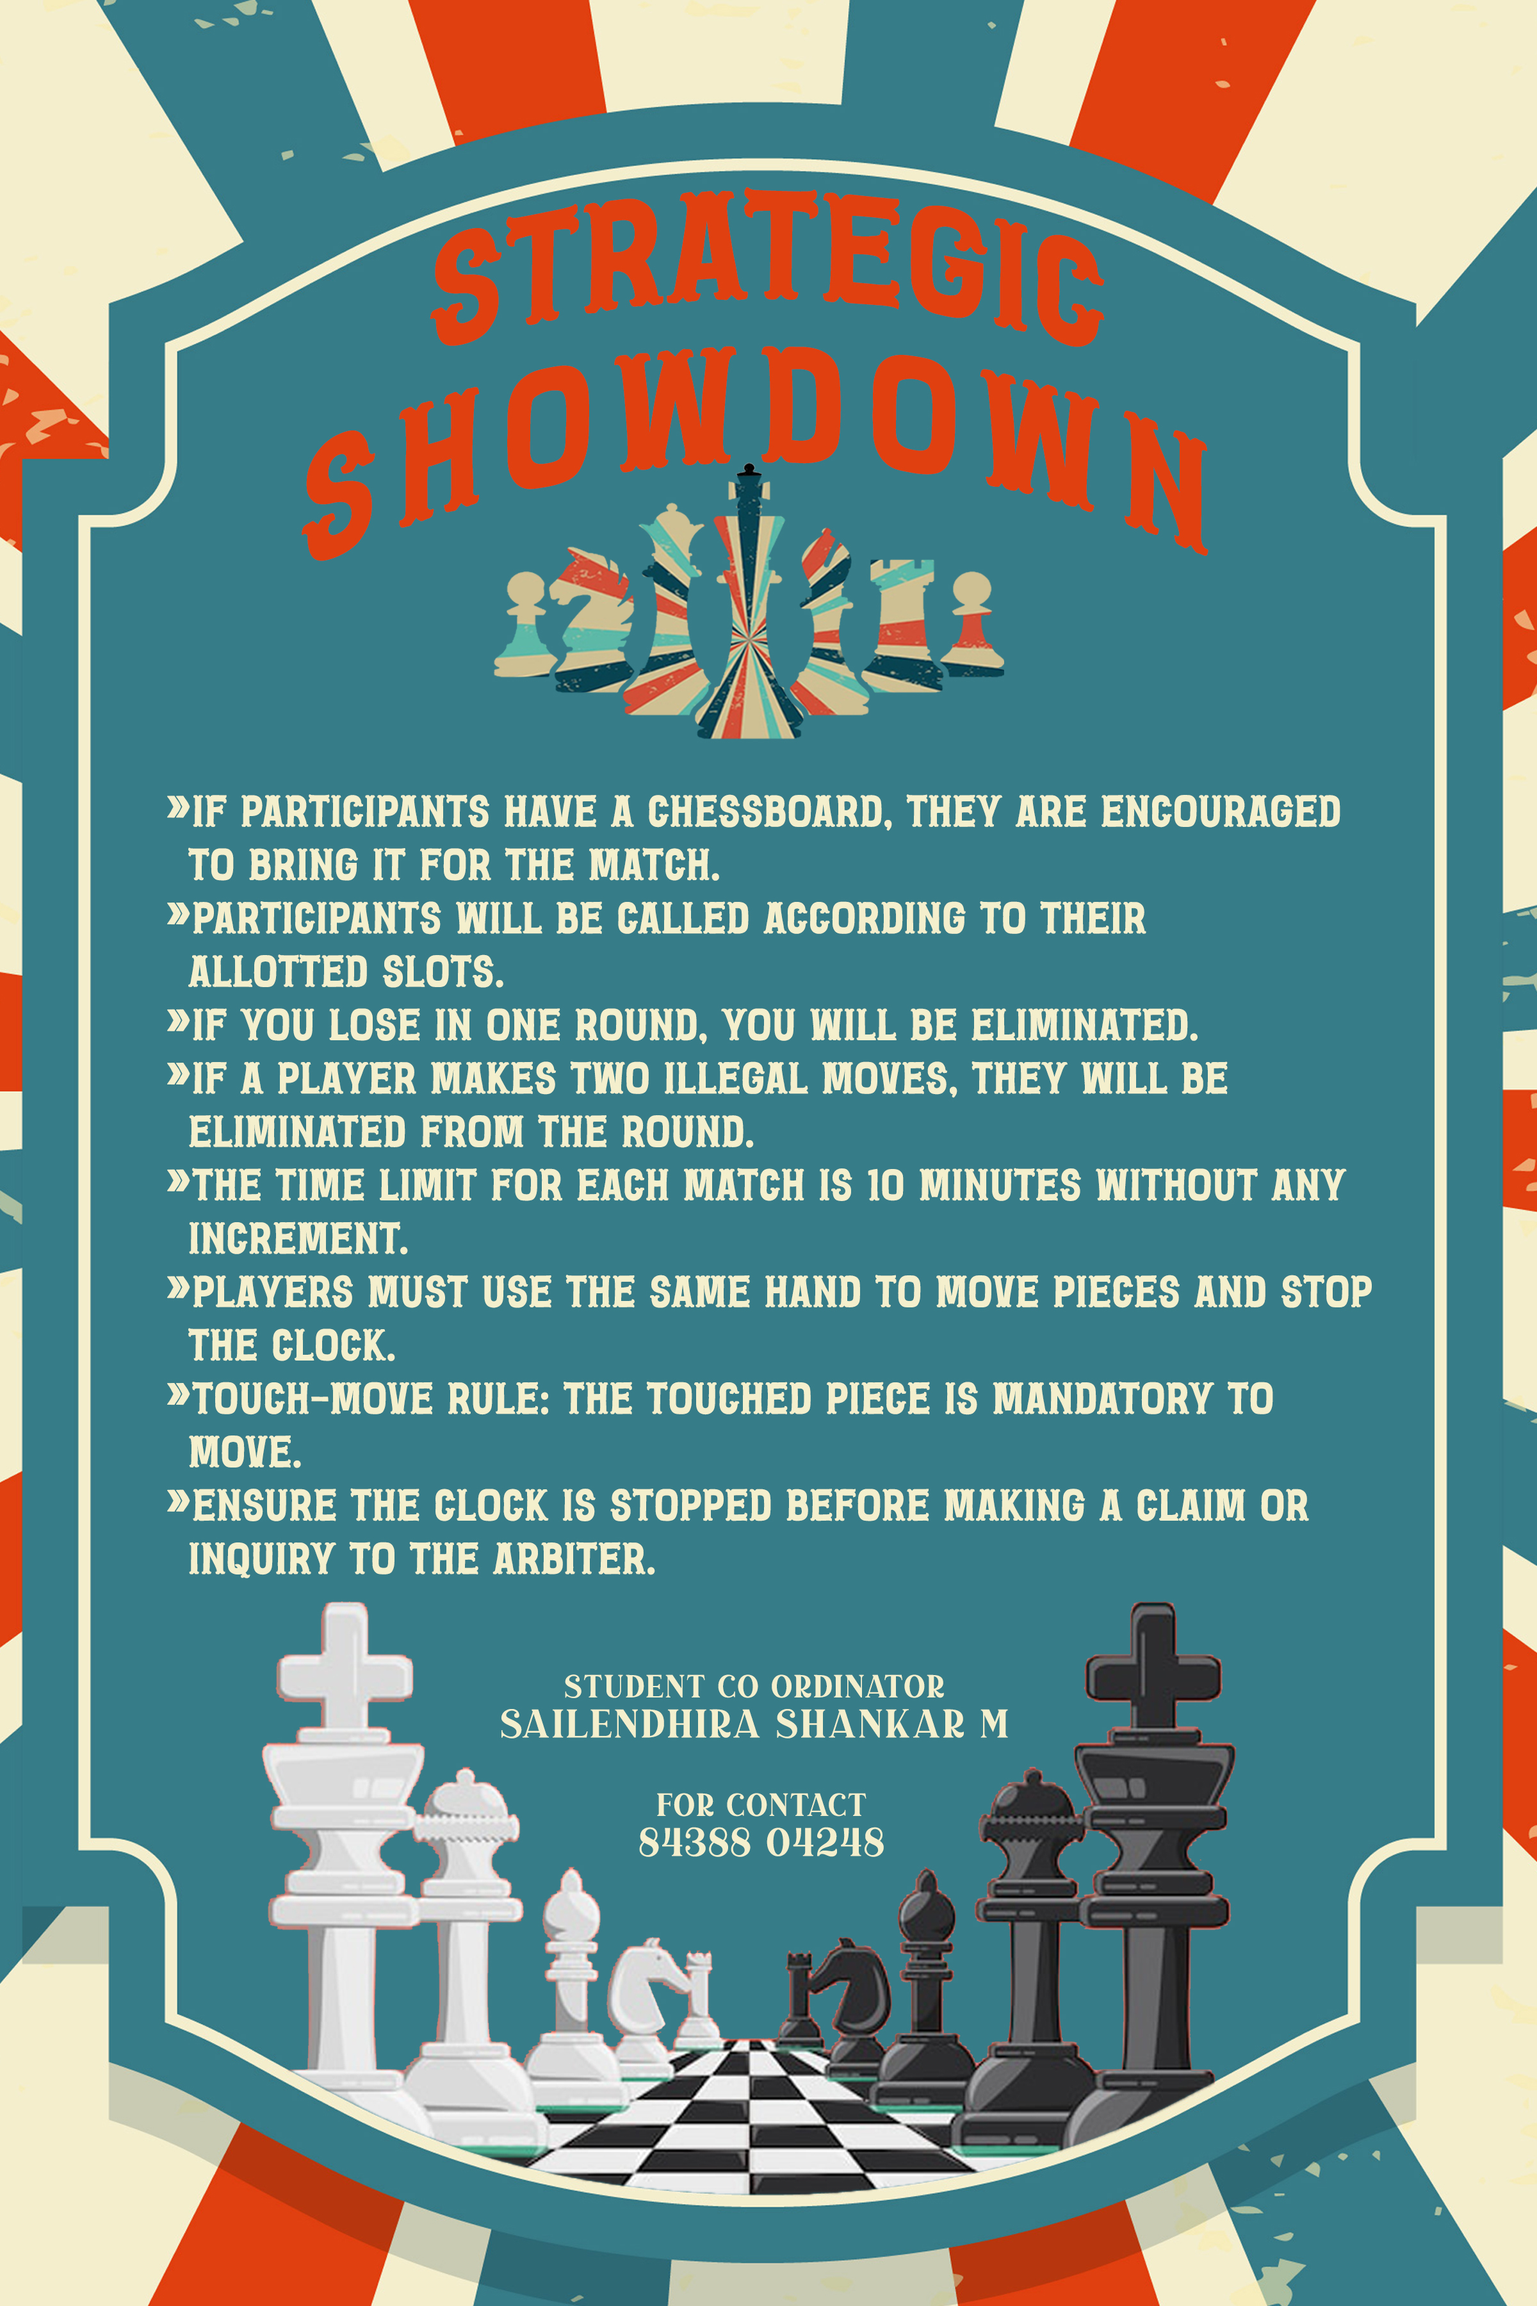
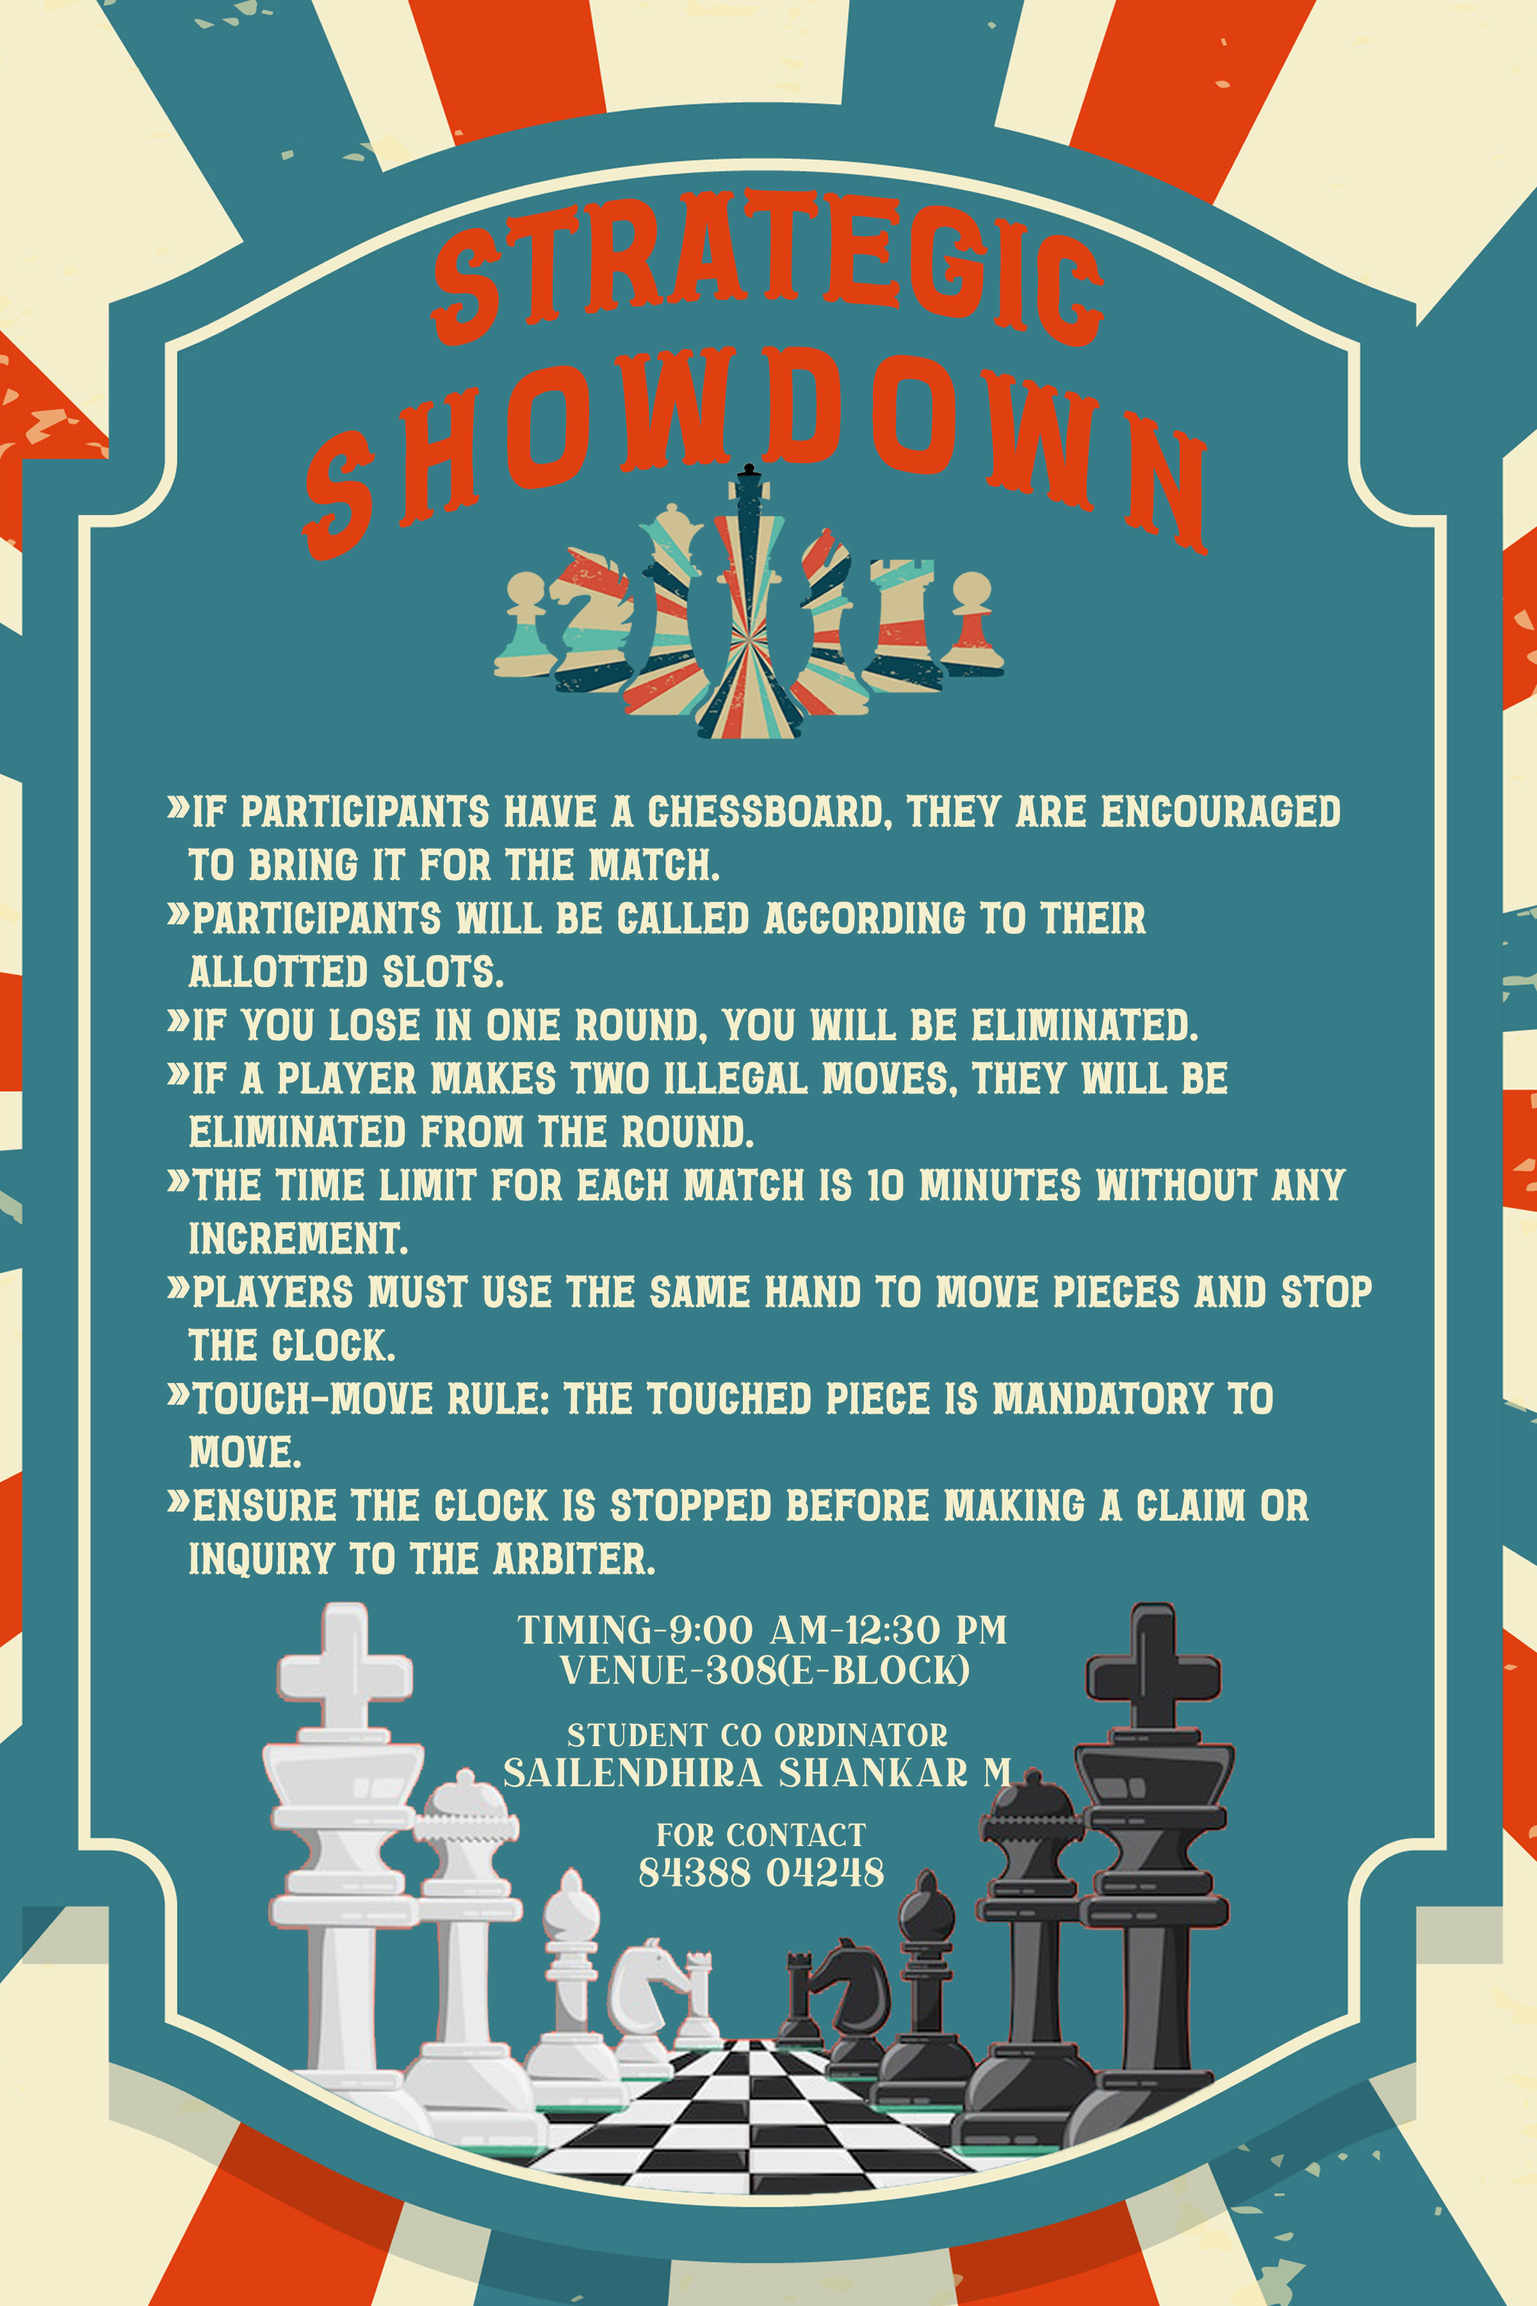
updated

Changed region(s): [[0.3125, 0.6844, 0.6562, 0.84]]

diff --git a/index.html b/index.html
@@ -89,7 +89,7 @@
             <a href="#debugging"><img src="./assests/Technoverse.jpg" class="d-block mx-auto" width="300px" alt="..."></a>
           </div>
           <div class="carousel-item">
-            <a href="#MH"><img src="./assests/hackthon poster copy.jpg" class="d-block mx-auto" width="300px" alt="..."></a>
+            <a href="#MH"><img src="./assests/hackthon .jpg" class="d-block mx-auto" width="300px" alt="..."></a>
           </div>
           <div class="carousel-item">
             <a href="#chess"><img src="./assests/chess poster.jpg" class="d-block mx-auto" width="300px"alt="..."></a>
@@ -122,8 +122,8 @@
        <!-- debugging -->
        <div class="container-fluid aboutus" id="navbar">
         <div class="row" style="margin: 10px;" >
-            <div class="col-lg-5 col-sm-12 " >
-                <!-- FF CAUROUSEL -->
+            <div class="col-lg-5 col-sm-12 mt-5" >
+                <!-- EE CAUROUSEL -->
                 <div id="carouselExampleControls2" class="carousel slide" data-bs-ride="carousel"  >
                   <div class="carousel-inner">
                     <div class="carousel-item active">
@@ -144,27 +144,40 @@
                     <span class="visually-hidden">Next</span>
                   </button>
                 </div>
-                 <!-- FF CAUROUSEL -->
+                 <!-- EE CAUROUSEL -->
             </div>
             <div class="col-lg-5 col-sm-12 lyric" id="debugging" data-aos="fade-in" data-aos-duration="3000" data-aos-delay="200"  style="margin-top: 10px;">
                 <div  style="margin: 10px;">
                   <h5><b>ERROR ELIMINATOR</b></h5>
-                <h6><b>RULES :</b></h6>
+                   <h6><b>RULES :</b></h6>
                 <div style="text-align: left;">
                   <p >
                     ● Number of Rounds: Two rounds will be conducted. <br>
+                    <br>
                     ● Team Composition: Each team will consist of two members. <br>
+                    <br>
                    <h5> Round 1: MCQ (Multiple Choice Questions) </h5><br>
+                   <br>
                     ● Only one member from each team will participate in this round. <br>
+                    <br>
                     ● The MCQs will test programming concepts, logic, and debugging skills. <br>
+                    <br>
                     ● Based on the performance in this round, a sorted list of qualifying teams will be prepared 
                     for Round 2. <br>
+                    <br>
                    <h5> Round 2: Programming Challenge </h5><br>
+                   <br>
                     ● The second team member will participate in this round. <br>
+                    <br>
                     ● Participants will be given three programs to solve, one each in C, Python, and Java. <br>
+                    <br>
                     ● This round will evaluate their practical debugging and coding skills.<br>
+                    <br>
                   </p>
+                  
                 </div>
+                <h5>Timing -2:30 PM - 4:00 PM
+                  Venue- 308 (E-Block)</h5>
                 <button class="button-85" role="button" onclick="location.href = 'https://docs.google.com/forms/d/e/1FAIpQLScjqJ7rUNOEeX5tFergJcOVSEwIbawP_llTdJqJDXGmaD6BbA/viewform'">Register</button>
                 </div>
             </div>
@@ -174,12 +187,12 @@
 <!-- debugging -->
  <!-- poster making -->
  <div class="container-fluid aboutus" id="navbar">
-  <div class="row" style="margin: 5px ;">
-      <div class="col-lg-5 col-sm-12">
+  <div class="row" style="margin: 5px  ;">
+      <div class="col-lg-5 col-sm-12 mt-5">
           <img class="img-fluid" src="./assests/POSTER MAKING.jpg" alt=""  data-aos="fade-in" data-aos-duration="2000" width="300px" style="margin-bottom: 10px;">
       </div>
       <div class="col-lg-5 col-sm-12 PM " id="PM" data-aos="fade-in" data-aos-duration="2000" data-aos-delay="200">
-          <h5><b>ART BOARD ALCHEMY</b></h5>
+          <h5><b>ARTBOARD ALCHEMY</b></h5>
           <h6><b>Rules and Regulations:</b></h6>
                     <p style="text-align: left;" >
                       ● This is an individual event <br>
@@ -196,9 +209,13 @@
             <br>
             ● Vulgarity of any sort will lead to immediate disqualification. <br>
             <br>
-            ● Judge's decision will be final. <br>
-            
+            ● Judge's decision will be final.
+            <br>
+            ● Participants are required to bring their own laptop and/or smartphone for the event. <br>
+            <br>
           </p>
+          <h5>Timing-10:30 AM-12:30 PM
+            Venue-306(E-Block)</h5>
           <button class="button-85" role="button" onclick="location.href = 'https://docs.google.com/forms/d/e/1FAIpQLScjqJ7rUNOEeX5tFergJcOVSEwIbawP_llTdJqJDXGmaD6BbA/viewform'"
           >Register</button>
       </div>
@@ -209,8 +226,8 @@
      <!-- mini hackthon -->
  <div class="container-fluid aboutus" id="navbar">
   <div class="row" style="margin: 5px ;">
-      <div class="col-lg-5 col-sm-12">
-          <img class="img-fluid" src="./assests/hackthon poster copy.jpg" alt=""  width="300px" style="margin-bottom: 10px;">
+      <div class="col-lg-5 col-sm-12 mt-5">
+          <img class="img-fluid" src="./assests/hackthon .jpg" alt=""  width="300px" style="margin-bottom: 10px;">
       </div>
       <div class="col-lg-5 col-sm-12 FF" id="MH" data-aos="fade-in" data-aos-duration="2000" data-aos-delay="200" >
           <h5><b>MINI HACKATHON</b></h5>
@@ -218,16 +235,24 @@
           <div style="text-align: start;">
             <p>
               ● Each participant must bring their valid ID card. <br>
-              ● Event timing: 9:00 AM - 4:00 PM.<br>
+              <br>
+          
               ● Participants must report to the respective venue at least 30 minutes before the event starts.<br>
-              ● Teams should consist of 2 to 5 students.<br>
+              <br>
+              ● Teams should consist of 3 students.<br>
+              <br>
               ● Problem statements will be provided on the spot, and participants must devise suitable solutions using programming languages within a 6-hour time frame.<br>
+              <br>
               ● Participants must bring their own laptops with the necessary programming languages and frameworks pre-installed.<br>
+              <br>
               ● Any form of malpractice will result in immediate disqualification.<br>
+              <br>
               ● The decision of the judges will be final and binding.<br>
+              <br>
             </p>
           </div>
-          
+          <h5>Timing -10:00 AM - 4:00 PM
+            Venue-305(E-Block)</h5>
           <button class="button-85" role="button" onclick="location.href = 'https://docs.google.com/forms/d/e/1FAIpQLScjqJ7rUNOEeX5tFergJcOVSEwIbawP_llTdJqJDXGmaD6BbA/viewform'"
           >Register</button>
       </div>
@@ -238,7 +263,7 @@
  <!-- LYRICAHOLIC -->
  <div class="container-fluid aboutus" id="navbar">
     <div class="row" style="margin: 5px ;">
-        <div class="col-lg-5 col-sm-12" >
+        <div class="col-lg-5 col-sm-12 mt-5" >
             <img class="img-fluid" src="./assests/lyricaholic.jpg"  width="300px"alt="" style="margin-bottom: 10px;" >
         </div>
         <div class="col-lg-5 col-sm-12 lyric" id="LYRICAHOLIC" data-aos="fade-in" data-aos-duration="2000" data-aos-delay="200">
@@ -246,29 +271,30 @@
             <h6><b>RULES :</b></h6>
             <p style="text-align: start;">
               ●	Lyrics are chosen randomly or by a designated host. <br>
-
+              <br>
               ●	The host displays a short snippet of the song's lyrics (e.g., 1-2 lines).<br>
-              
+              <br>
               ●	Number of participants :2<br>
-              
+              <br>
               ●	Turn-Based Play: Each team takes turns based answering.<br>
-              
+              <br>
               Tie-Breaker Rules:<br>
-              
+              <br>
               ●	In case of equal scores,we will give tie-breaker round.<br>
-              
+              <br>
               Time Limit: <br>
-              
+              <br>
               ●	A time limit (e.g., 2min) is set for each turn to ensure the game moves quickly.<br>
-              
+              <br>
               Cheating: <br>
               ●	Using external aids (e.g., phone, internet) results in disqualification of the team<br>
-              
+              <br>
               Winning the Game<br>
               ●	The player/team with the most points at the end of the game wins.<br>
-              
+              <br>
             </p>
-           
+            <h5>Timing-1:15 PM - 4:00 PM
+              Venue - 306(E-Block)</h5>
             <button class="button-85" role="button" onclick="location.href = 'https://docs.google.com/forms/d/e/1FAIpQLScjqJ7rUNOEeX5tFergJcOVSEwIbawP_llTdJqJDXGmaD6BbA/viewform'">Register</button>
         </div>
         
@@ -278,7 +304,7 @@
      <!-- FUN FIESTA -->
  <div class="container-fluid aboutus" id="navbar" >
   <div class="row" style="margin: 10px;" >
-      <div class="col-lg-5 col-sm-12 " >
+      <div class="col-lg-5 col-sm-12 mt-10 " >
           <!-- FF CAUROUSEL -->
           <div id="carouselExampleControls3" class="carousel slide" data-bs-ride="carousel"  >
             <div class="carousel-inner">
@@ -307,7 +333,7 @@
           </div>
            <!-- FF CAUROUSEL -->
       </div>
-      <div class="col-lg-5 col-sm-12 lyric" id="FF" data-aos="fade-in" data-aos-duration="2000" data-aos-delay="200" style="margin-top: 10px;">
+      <div class="col-lg-5 col-sm-12 lyric " id="FF" data-aos="fade-in" data-aos-duration="2000" data-aos-delay="200" style="margin-top: 10px;">
           <div  style="margin: 10px;">
             <h5><b>FUN FIESTA</b></h5>
           <h6><b>RULES :</b></h6>
@@ -315,21 +341,38 @@
             <p>
               <b>Rules & Regulations: </b> <br>
 ▪ Team Composition: Each team must consist of 3 participants. <br>
+<br>
 ▪ Event Structure: The event consists of 3 rounds.  <br>
+<br>
 <b>Round 1: Quiz  </b> <br>
+<br>
 ▪ Topics: General Science, Entertainment, Sports, and Current Affairs.  <br>
+<br>
 ▪ Format: 20 questions in 20 minutes.  <br>
+<br>
 <b>Round 2: Connections</b>   <br>
+<br>
 ▪ Topics: Technology, Movies, Travel, and Music.  <br>
+<br>
 ▪ Format: Participants will connect 2–3 displayed pictures to find the answer.  <br>
+<br>
 ▪ Time Limit: 30 seconds per question.  <br>
+<br>
 <b>Round 3: Treasure Hunt (Final Round)</b>   <br>
+<br>
 ▪ Shortlisted teams will participate.  <br>
+<br>
 ▪ Teams follow clues to uncover the treasure.  <br>
+<br>
 ▪ Winners: First team to find the treasure.  <br> 
+<br>
 ▪ Runners-up: Second and third teams to finish.  <br>
+<br>
             </p>
           </div>
+          <h5>Timing-1:15 PM - 2:30 PM
+            Venue - 308 (E-Block)
+            </h5>
           <button class="button-85" role="button" onclick="location.href = 'https://docs.google.com/forms/d/e/1FAIpQLScjqJ7rUNOEeX5tFergJcOVSEwIbawP_llTdJqJDXGmaD6BbA/viewform'">Register</button>
           </div>
       </div>
@@ -340,7 +383,7 @@
    <!-- chess -->
  <div class="container-fluid aboutus"  id="navbar">
   <div class="row" style="margin: 5px ;">
-      <div class="col-lg-5 col-sm-12" >
+      <div class="col-lg-5 col-sm-12 mt-5" >
           <img class="img-fluid" src="./assests/chess poster.jpg"  width="300px"alt="" style="margin: 10px ;" >
       </div>
       <div class="col-lg-5 col-sm-12 lyric" id="chess" data-aos="fade-in" data-aos-duration="2000" data-aos-delay="200">
@@ -350,26 +393,28 @@
             ●	If participants have a chessboard, they are encouraged to bring it for the match.  <br>
 
             ●	Participants are not allowed to wear any watch. <br>
-            
+            <br>
             ●	Participants will be called according to their allotted slots. <br>
-            
+            <br>
             ●	If you lose in one round, you will be eliminated. <br>
-            
-            
+            <br>
             ●	If a player makes two illegal moves, they will be eliminated from the round<br>
-            
-          
-            
+            <br>
             ●	The time limit for each match is 10 minutes without any increment.<br>
-            
+            <br>
             ●	Players must use the same hand to move pieces and stop the clock. <br>
-            
+            <br>
             ●	Once a piece is released on a square, the move is final (unless the move is illegal). <br>
+            <br>
             ●	Touch-move rule: the touched piece is mandatory to move.  <br>
+            <br>
             ●	Ensure the clock is stopped before making a claim or inquiry to the arbiter.  <br>
+            <br>
             ●	Participants should maintain silence in the playing hall. <br>
+            <br>
           </p>
-         
+          <h5>Timing-9:00 AM-12:30 PM
+            Venue-308(E-Block)</h5>
           <button class="button-85" role="button" onclick="location.href = 'https://docs.google.com/forms/d/e/1FAIpQLScjqJ7rUNOEeX5tFergJcOVSEwIbawP_llTdJqJDXGmaD6BbA/viewform'">Register</button>
       </div>
       
